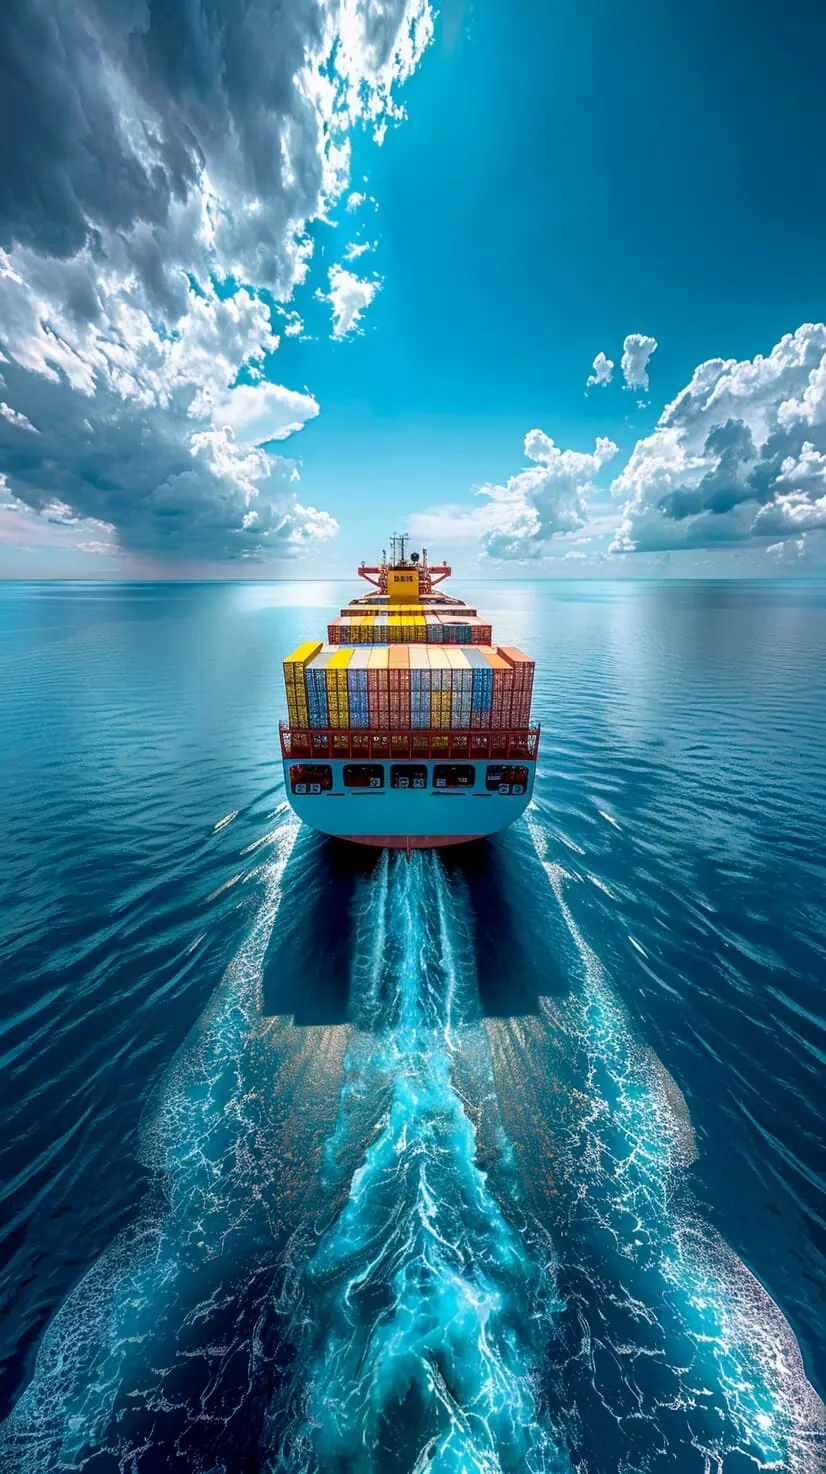
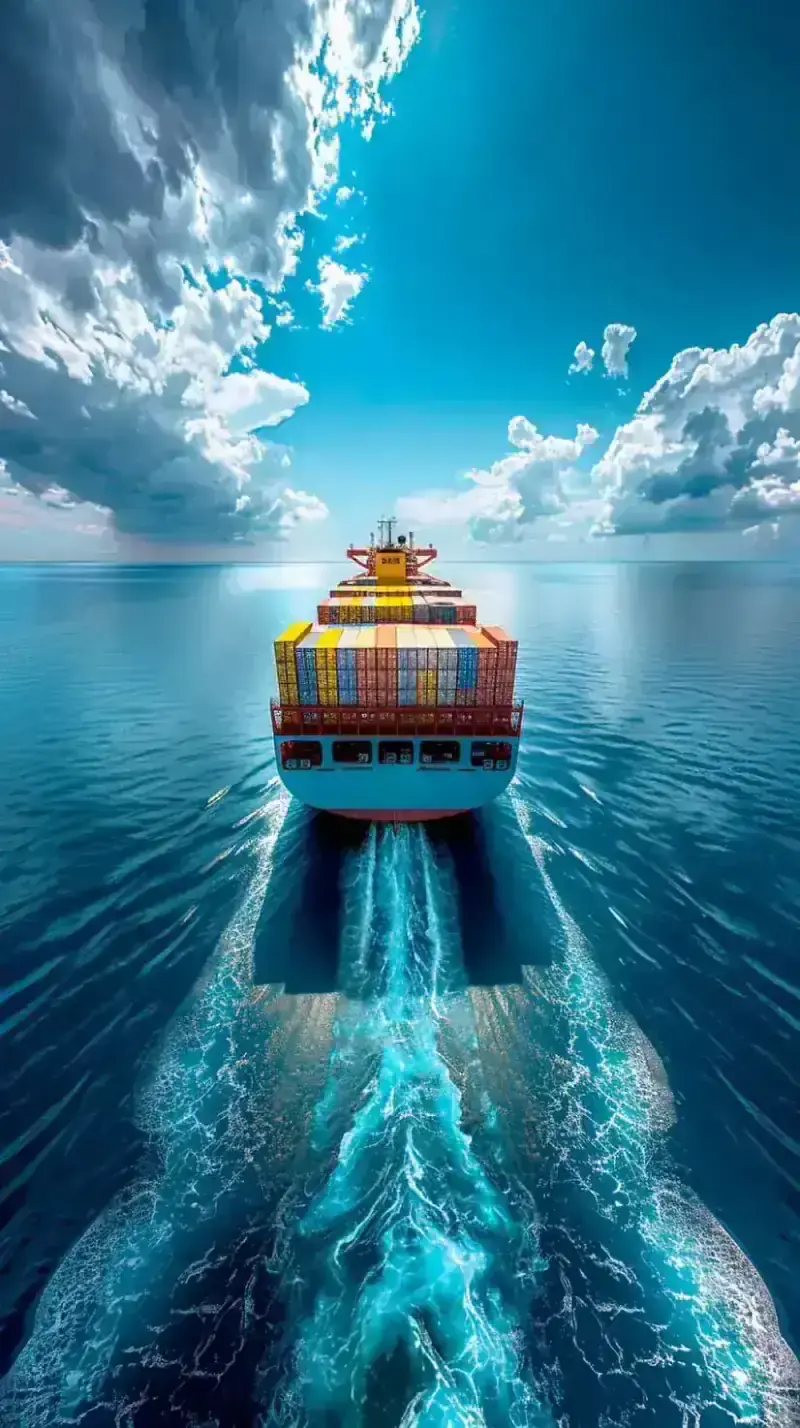
feat: update metadata titles and descriptions for improved SEO across multiple pages

diff --git a/src/app/blog/[slug]/page.tsx b/src/app/blog/[slug]/page.tsx
@@ -17,6 +17,10 @@ const blogs: Record<
       description: string;
       keywords: string[];
     };
+    cta: {
+      title: string;
+      subtitle: string;
+    };
   }
 > = {
   "hatta-customs-clearance": {
@@ -43,6 +47,11 @@ const blogs: Record<
         "Border Link customs guide",
       ],
     },
+    cta: {
+      title: "Need Help Clearing Cargo at the Hatta Border?",
+      subtitle:
+        "Talk to our Hatta customs team for step-by-step support with your clearance and documentation needs.",
+    },
   },
   "dubai-municipality-approval": {
     title: "Dubai Municipality Approval Guide",
@@ -67,6 +76,11 @@ const blogs: Record<
         "customs approval guide Dubai",
         "Border Link approvals",
       ],
+    },
+    cta: {
+      title: "Looking for Help With Dubai Municipality Approvals?",
+      subtitle:
+        "Our team manages Dubai Municipality registrations and renewals so your products clear customs on the first try.",
     },
   },
   "common-customs-mistakes": {
@@ -93,6 +107,11 @@ const blogs: Record<
         "common customs errors",
       ],
     },
+    cta: {
+      title: "Want to Avoid Costly Customs Documentation Errors?",
+      subtitle:
+        "Border Link reviews every document before submission so your shipment is cleared the first time.",
+    },
   },
 
   "freight-forwarding-hatta-border": {
@@ -111,7 +130,7 @@ const blogs: Record<
     meta: {
       title: "Freight Forwarding Hatta Border Dubai | Border Link",
       description:
-        "Complete guide to freight forwarding at Hatta border. Border Link provides fast, reliable freight forwarding services at the Hatta–Dubai border crossing.",
+        "Complete guide to freight forwarding at the Hatta border. Border Link offers fast, reliable freight services across the Hatta–Dubai crossing.",
       keywords: [
         "freight forwarding Hatta border",
         "Hatta border freight forwarder",
@@ -119,6 +138,11 @@ const blogs: Record<
         "cargo forwarding Hatta UAE",
         "Hatta border crossing logistics",
       ],
+    },
+    cta: {
+      title: "Need a Freight Forwarder at the Hatta Border?",
+      subtitle:
+        "Our team coordinates trucks, paperwork, and customs so your cargo reaches its destination without delays.",
     },
   },
 
@@ -147,6 +171,11 @@ const blogs: Record<
         "customs clearance UAE borders",
       ],
     },
+    cta: {
+      title: "Struggling With Cargo Clearance at UAE Borders?",
+      subtitle:
+        "Border Link handles clearance at Hatta, Al Ghuwaifat, Wajajah - all UAE border crossings so you don't have to.",
+    },
   },
 
   "uae-import-export-regulations-2025": {
@@ -173,6 +202,11 @@ const blogs: Record<
         "export regulations Dubai",
         "UAE customs compliance",
       ],
+    },
+    cta: {
+      title: "Need a Compliance Check for UAE Trade Rules?",
+      subtitle:
+        "Border Link keeps up with every UAE customs update. Get in touch for a free compliance review of your shipments.",
     },
   },
 
@@ -201,6 +235,11 @@ const blogs: Record<
         "UAE tariff rates",
       ],
     },
+    cta: {
+      title: "Want Help Calculating Your Customs Duty?",
+      subtitle:
+        "Our team works out the right duty for your cargo and shows you legal ways to lower the cost using correct tariff codes.",
+    },
   },
 
   "hatta-border-crossing-guide": {
@@ -227,6 +266,11 @@ const blogs: Record<
         "customs clearance Hatta border crossing",
         "Hatta border logistics",
       ],
+    },
+    cta: {
+      title: "Crossing the Hatta Border With Cargo?",
+      subtitle:
+        "Visit us at Shop 29, Hatta Souq & Guest House, minutes from the border, for fast clearance and on-the-spot help.",
     },
   },
 
@@ -255,6 +299,11 @@ const blogs: Record<
         "UAE customs documentation requirements",
       ],
     },
+    cta: {
+      title: "Not Sure Which Documents You Need?",
+      subtitle:
+        "Send us your cargo details and we'll give you a complete document checklist and review every file before submission.",
+    },
   },
 
   "choosing-customs-broker-dubai": {
@@ -282,6 +331,11 @@ const blogs: Record<
         "customs agent Dubai UAE",
       ],
     },
+    cta: {
+      title: "Looking for a Trusted Customs Broker in Dubai?",
+      subtitle:
+        "Border Link is licensed, on call 24/7, and based minutes from the Hatta border. Reach out today for a free chat.",
+    },
   },
 };
 
@@ -306,7 +360,9 @@ export async function generateMetadata({
   }
 
   return {
-    title: blog.meta.title,
+    title: {
+      absolute: blog.meta.title,
+    },
     description: blog.meta.description,
     keywords: blog.meta.keywords.join(", "),
     alternates: {
@@ -378,7 +434,7 @@ export default async function BlogPage({
           </p>
         ))}
       </section>
-      <BlogContactCTA />
+      <BlogContactCTA title={blog.cta.title} subtitle={blog.cta.subtitle} />
     </div>
   );
 }

diff --git a/src/components/homePage/ContactForm.tsx b/src/components/homePage/ContactForm.tsx
@@ -1,6 +1,6 @@
 "use client";
 
-import React from "react";
+import React, { useEffect } from "react";
 import { useForm, Controller } from "react-hook-form";
 import { z } from "zod";
 import { zodResolver } from "@hookform/resolvers/zod";
@@ -84,9 +84,9 @@ const ContactForm = () => {
 
   return (
     <div id="contact-form">
-      <h2 className="text-2xl md:text-3xl font-bold font-poppins mb-1">
+      <h3 className="text-2xl md:text-3xl font-bold font-poppins mb-1">
         Send Us a Message
-      </h2>
+      </h3>
       <p className="text-muted text-sm mb-6">
         Fill in the form and we&apos;ll get back to you within a few hours.
       </p>
@@ -151,6 +151,16 @@ const ContactForm = () => {
                   className={`${inputClass} [&>input]:bg-transparent [&>input]:border-none [&>input]:outline-none [&>input]:text-foreground [&>input]:pl-2`}
                   disabled={isSubmitting}
                   onChange={(value) => field.onChange(value ?? "")}
+                  flagComponent={({ country, flagUrl }) => (
+                    // eslint-disable-next-line @next/next/no-img-element
+                    <img
+                      src={flagUrl}
+                      alt={country ? `Flag of ${country}` : "Country flag"}
+                      width={20}
+                      height={14}
+                      className="PhoneInputCountryIconImg"
+                    />
+                  )}
                   countrySelectProps={{
                     arrowComponent: () => (
                       <ChevronDown className="w-3.5 h-3.5 text-muted ml-1" />

diff --git a/src/components/blogPage/BlogContactCTA.tsx b/src/components/blogPage/BlogContactCTA.tsx
@@ -1,20 +1,25 @@
 // components/BlogContactCTA.tsx
 import Link from "next/link";
 
-export default function BlogContactCTA() {
+export default function BlogContactCTA({
+  title = "Have Questions About Customs Clearance or Importing Goods?",
+  subtitle = "Reach out to Border Link for expert advice, guides, and support for your shipments and imports in Dubai and UAE.",
+}: {
+  title?: string;
+  subtitle?: string;
+}) {
   return (
     <section className="py-16">
       <div className="container mx-auto px-4 md:px-8">
         <div className="rounded-lg p-12 text-center shadow-lg bg-primary">
           {/* Heading */}
           <h2 className="text-3xl md:text-4xl font-bold text-white font-poppins mb-4">
-            Have Questions About Customs Clearance or Importing Goods?
+            {title}
           </h2>
 
           {/* Subtext */}
           <p className="text-gray-200 text-lg md:text-xl mb-8 font-inter">
-            Reach out to Border Link for expert advice, guides, and support for
-            your shipments and imports in Dubai and UAE.
+            {subtitle}
           </p>
 
           {/* CTA Button */}

diff --git a/src/app/services/[serviceSlug]/page.tsx b/src/app/services/[serviceSlug]/page.tsx
@@ -14,13 +14,13 @@ interface ServiceData {
 
 const services: Record<string, ServiceData> = {
   "customs-clearance": {
-    title: "Customs Clearance Dubai & UAE Borders",
+    title: "Customs Clearance Dubai & UAE Borders | Border Link",
     description:
       "Fast, reliable customs clearance for businesses and individuals across Dubai and all UAE borders.",
     content: <CustomsContent />,
   },
   "approvals-registrations": {
-    title: "Approvals & Product Registration in Dubai",
+    title: "Approvals & Product Registration in Dubai | Border Link",
     description:
       "Dubai Municipality and Ministry approvals, ensuring your products comply with all UAE regulations.",
     content: <ApprovalsContent />,
@@ -32,7 +32,7 @@ const services: Record<string, ServiceData> = {
     content: <LogisticsContent />,
   },
   "e-services": {
-    title: "24x7 E-Services for Customs & Logistics",
+    title: "24x7 E-Services for Customs & Logistics | Border Link",
     description:
       "Online customs support and documentation help for your shipments, with 24/7 tracking and clearance.",
     content: <EServicesContent />,
@@ -60,7 +60,9 @@ export async function generateMetadata({
   }
   
   return {
-    title: service.title,
+    title: {
+      absolute: service.title,
+    },
     description: service.description,
     alternates: {
       canonical: `https://borderlink.info/services/${serviceSlug}`,

diff --git a/src/app/globals.css b/src/app/globals.css
@@ -219,3 +219,9 @@ select::-ms-expand {
   opacity: 1;
   transform: scale(1.2);
 }
+
+/* react-phone-number-input flag — set explicit dimensions to avoid CLS */
+.PhoneInputCountryIconImg {
+  width: 20px !important;
+  height: 14px !important;
+}

diff --git a/src/app/not-found.tsx b/src/app/not-found.tsx
@@ -4,6 +4,12 @@ import React from "react";
 import Link from "next/link";
 import { motion } from "framer-motion";
 
+export const metadata = {
+  title: "404 – Page Not Found | Border Link",
+  description: "The page you are looking for doesn't exist. Visit Border Link for customs clearance and logistics services in Dubai and the UAE.",
+  robots: { index: false, follow: false },
+};
+
 export default function NotFound() {
   return (
     <div className="relative min-h-screen bg-zinc-950 text-white selection:bg-primary selection:text-white">

diff --git a/src/app/about/page.tsx b/src/app/about/page.tsx
@@ -8,7 +8,9 @@ import React from "react";
 import { Metadata } from "next";
 
 export const metadata: Metadata = {
-  title: "About Border Link – Dubai's Trusted Customs Broker",
+  title: {
+    absolute: "About Border Link – Dubai's Trusted Customs Broker | Border Link",
+  },
   description:
     "Learn about Border Link Cargo & Customs Broker LLC – our mission, expert team, and years of experience at Hatta border and across UAE.",
   alternates: { canonical: "https://borderlink.info/about" },

diff --git a/src/app/blog/page.tsx b/src/app/blog/page.tsx
@@ -2,7 +2,9 @@ import { Metadata } from "next";
 import BlogContactCTA from "@/components/blogPage/BlogContactCTA";
 
 export const metadata: Metadata = {
-  title: "Blog – Customs Clearance & Logistics Guides Dubai",
+  title: {
+    absolute: "Blog – Customs Clearance & Logistics Guides Dubai | Border Link",
+  },
   description:
     "Tips, guides, and insights on customs clearance, import/export regulations, freight forwarding, and logistics in Dubai and the UAE.",
   alternates: { canonical: "https://borderlink.info/blog" },

diff --git a/src/app/services/page.tsx b/src/app/services/page.tsx
@@ -2,7 +2,9 @@ import { Metadata } from "next";
 import ContactCTA from "@/components/aboutPage/ContactCTA";
 
 export const metadata: Metadata = {
-  title: "Customs & Logistics Services Dubai | Border Link",
+  title: {
+    absolute: "Customs & Logistics Services Dubai | Border Link",
+  },
   description:
     "Expert customs clearance, freight forwarding, approvals, and logistics across all UAE borders. Fast, reliable, fully compliant.",
   alternates: { canonical: "https://borderlink.info/services" },

diff --git a/src/app/contact/page.tsx b/src/app/contact/page.tsx
@@ -9,7 +9,7 @@ import { Metadata } from "next";
 export const metadata: Metadata = {
   title: "Contact Border Link Customs Broker Dubai",
   description:
-    "Contact Border Link Cargo & Customs Broker LLC for fast customs clearance, freight forwarding, and logistics across Dubai and UAE. Call, WhatsApp, or email us.",
+    "Contact Border Link Cargo & Customs Broker LLC for fast customs clearance services. Call, WhatsApp, or email us in Dubai.",
   alternates: { canonical: "https://borderlink.info/contact" },
   keywords: [
     "contact customs broker Dubai",